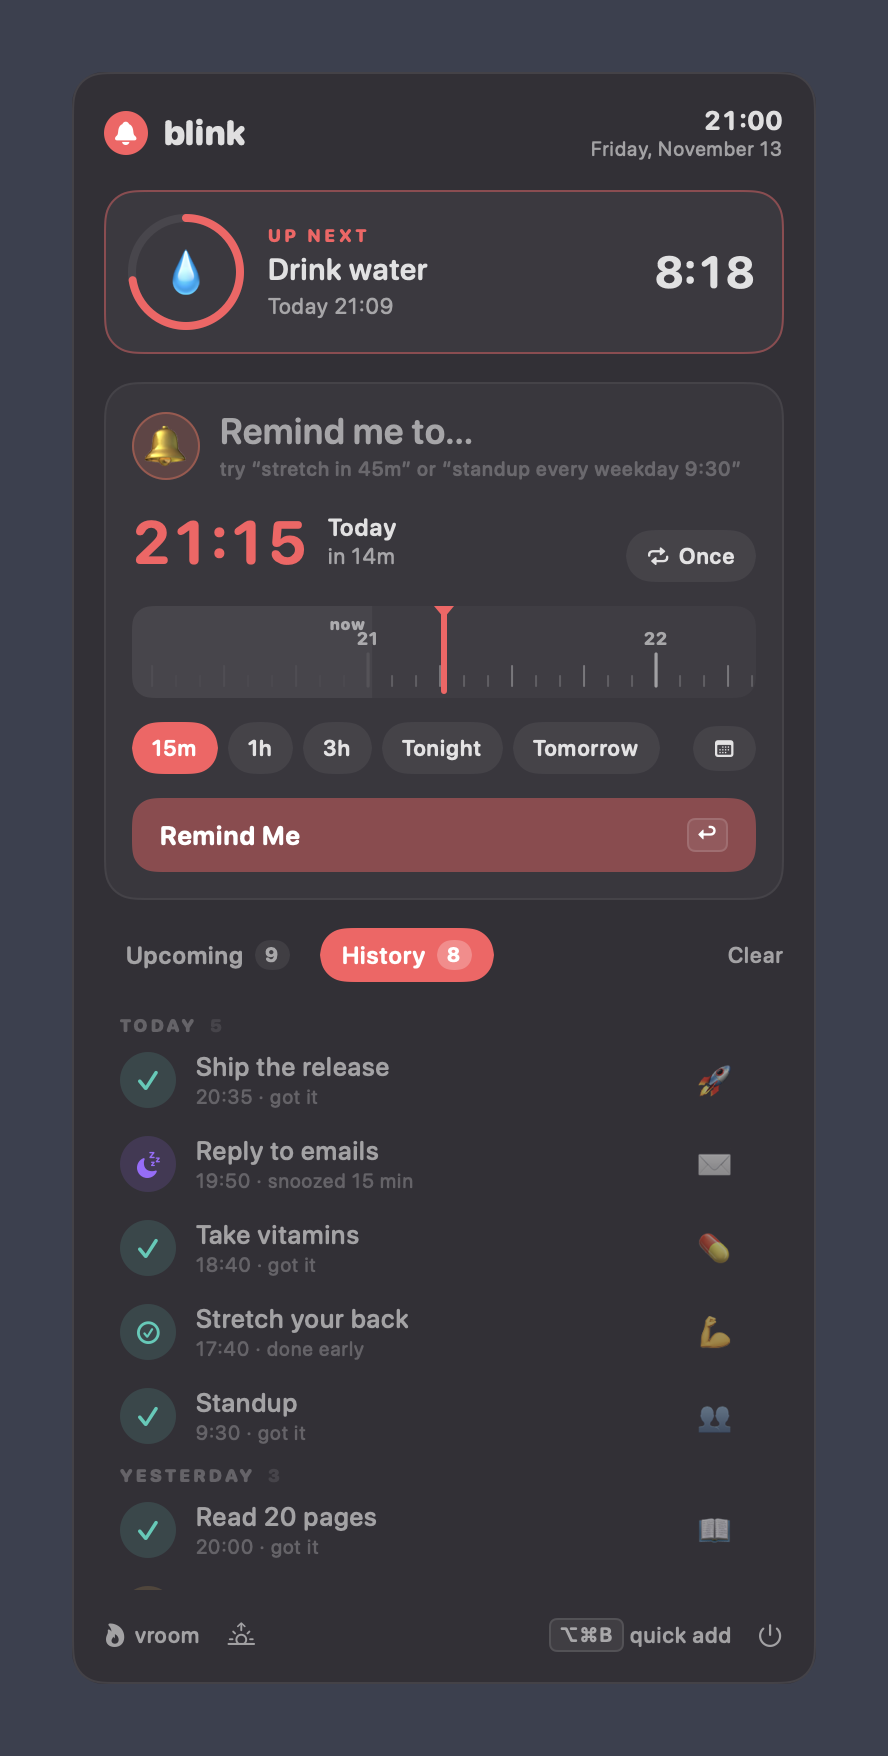
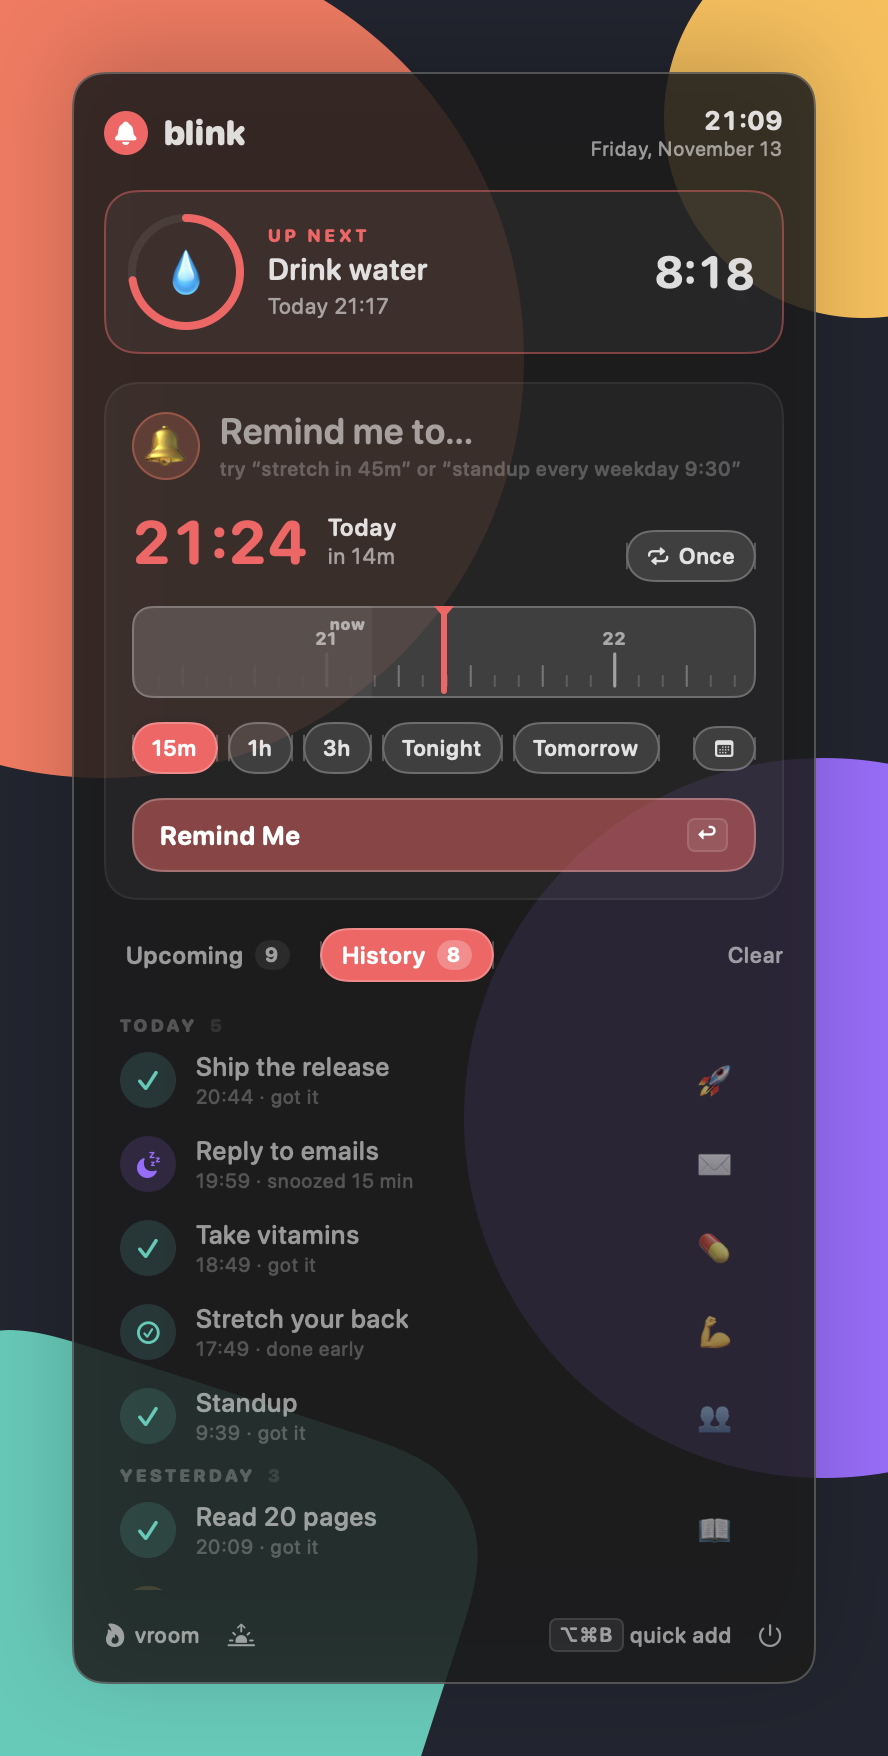
Liquid Glass design on macOS 26+
- Glass on the control layer: pills, tabs (sliding tinted glass), timeline,
  Remind Me, icon buttons, undo toast, alert buttons and bell disc
- Quick-add is a floating glass panel; GlassEffectContainer groups chips/buttons
- Flat fallback on older macOS; README screenshots use a glass stand-in
  since the compositor's glass can't be captured offscreen

diff --git a/Blink.swift b/Blink.swift
@@ -397,6 +397,60 @@ enum Fmt {
     static func when(_ d: Date) -> String { "\(day(d)) \(time(d))" }
 }
 
+// MARK: - Liquid Glass (macOS 26+), flat fallback on older systems
+
+extension View {
+    /// Glass for controls: pills, buttons, tabs. Content stays plain — glass is the layer you touch.
+    @ViewBuilder
+    func liquidGlass<S: InsettableShape>(_ shape: S, tint: Color? = nil, interactive: Bool = false) -> some View {
+        if snapshotMode {
+            self.background(FauxGlass(shape: shape, tint: tint))
+        } else if #available(macOS 26.0, *) {
+            self.glassEffect(Glass.regular.tint(tint).interactive(interactive), in: shape)
+        } else {
+            self.background(shape.fill(tint.map { AnyShapeStyle($0) } ?? AnyShapeStyle(Color.primary.opacity(0.07))))
+        }
+    }
+
+    /// Glass for whole floating panels.
+    @ViewBuilder
+    func glassPanel(radius: CGFloat) -> some View {
+        if snapshotMode {
+            self.background(FauxGlass(shape: RoundedRectangle(cornerRadius: radius), panel: true))
+        } else if #available(macOS 26.0, *) {
+            self.glassEffect(.regular, in: RoundedRectangle(cornerRadius: radius))
+        } else {
+            self.background(VisualEffect(material: .hudWindow, radius: radius))
+                .overlay(RoundedRectangle(cornerRadius: radius).strokeBorder(.white.opacity(0.12)))
+        }
+    }
+}
+
+/// Offscreen screenshots can't capture the compositor's real glass, so README shots use this stand-in.
+struct FauxGlass<S: InsettableShape>: View {
+    let shape: S
+    var tint: Color?
+    var panel = false
+    @Environment(\.colorScheme) private var scheme
+    var body: some View {
+        let dark = scheme == .dark
+        let base: Color = panel ? (dark ? Color(white: 0.11).opacity(0.86) : Color.white.opacity(0.82))
+                                : (dark ? Color.white.opacity(0.12) : Color.white.opacity(0.55))
+        shape.fill(tint ?? base)
+            .overlay(shape.strokeBorder(Color.white.opacity(dark ? 0.24 : 0.8), lineWidth: 1))
+            .shadow(color: .black.opacity(panel ? 0.25 : 0.08), radius: panel ? 24 : 3, y: panel ? 10 : 1)
+    }
+}
+
+/// Lets neighbouring glass shapes blend and morph into each other.
+struct GlassGroup<Content: View>: View {
+    var spacing: CGFloat = 8
+    @ViewBuilder var content: Content
+    var body: some View {
+        if #available(macOS 26.0, *) { GlassEffectContainer(spacing: spacing) { content } } else { content }
+    }
+}
+
 // MARK: - Small components
 
 struct EmojiBadge: View {
@@ -424,7 +478,7 @@ struct Pill: View {
         }
         .font(.r(11, .semibold))
         .padding(.horizontal, 10).padding(.vertical, 6)
-        .background(Capsule().fill(on ? AnyShapeStyle(warm) : AnyShapeStyle(.primary.opacity(hover ? 0.14 : 0.07))))
+        .liquidGlass(Capsule(), tint: on ? warm : (hover ? Color.primary.opacity(0.06) : nil), interactive: true)
         .foregroundStyle(on ? AnyShapeStyle(.white) : AnyShapeStyle(.primary))
         .contentShape(Capsule())
         .onHover { hover = $0 }
@@ -519,7 +573,7 @@ struct TimeScrubber: View {
             }
         }
         .frame(height: 46)
-        .background(RoundedRectangle(cornerRadius: 10).fill(.primary.opacity(hovering ? 0.06 : 0.035)))
+        .liquidGlass(RoundedRectangle(cornerRadius: 10), tint: hovering ? Color.primary.opacity(0.04) : nil, interactive: true)
         .contentShape(Rectangle())
         .onHover { hovering = $0; $0 ? NSCursor.resizeLeftRight.push() : NSCursor.pop() }
         .gesture(DragGesture(minimumDistance: 0)
@@ -634,7 +688,7 @@ struct Composer: View {
 
             TimeScrubber(target: $target, now: store.now) { chip = nil }
 
-            HStack(spacing: 5) {
+            GlassGroup(spacing: 5) { HStack(spacing: 5) {
                 ForEach(QuickTime.all) { q in
                     Button { withAnimation(.snappy) { chip = q.id; target = q.make() } } label: {
                         Pill(label: q.id, on: chip == q.id)
@@ -650,7 +704,7 @@ struct Composer: View {
                                 .datePickerStyle(.graphical).labelsHidden().padding(12)
                         }
                 }
-            }
+            } }
 
             Button(action: add) {
                 HStack {
@@ -661,7 +715,7 @@ struct Composer: View {
                 }
                 .font(.r(13, .bold))
                 .padding(.horizontal, 14).padding(.vertical, 10)
-                .background(RoundedRectangle(cornerRadius: 12).fill(warm).opacity(title.isEmpty ? 0.45 : 1))
+                .liquidGlass(RoundedRectangle(cornerRadius: 14), tint: warm.opacity(title.isEmpty ? 0.5 : 0.95), interactive: true)
                 .foregroundStyle(.white)
             }
             .buttonStyle(.plain)
@@ -779,7 +833,7 @@ struct PopoverView: View {
                 }
                 .font(.r(11, .medium))
                 .padding(.horizontal, 12).padding(.vertical, 8)
-                .background(Capsule().fill(.primary.opacity(0.06)))
+                .liquidGlass(Capsule())
                 .transition(.move(edge: .bottom).combined(with: .opacity))
             }
 
@@ -803,7 +857,12 @@ struct PopoverView: View {
             }
             .font(.r(12, .semibold))
             .padding(.horizontal, 11).padding(.vertical, 6)
-            .background { if tab == t { Capsule().fill(warm).matchedGeometryEffect(id: "tab", in: ns) } }
+            .background {
+                if tab == t {
+                    Capsule().fill(.clear).liquidGlass(Capsule(), tint: warm, interactive: true)
+                        .matchedGeometryEffect(id: "tab", in: ns)
+                }
+            }
             .foregroundStyle(tab == t ? AnyShapeStyle(.white) : AnyShapeStyle(.secondary))
             .contentShape(Capsule())
         }
@@ -997,7 +1056,7 @@ func iconButton(_ name: String, help: String, _ action: @escaping () -> Void) ->
     Button { withAnimation(.spring) { action() } } label: {
         Image(systemName: name).font(.system(size: 11, weight: .bold))
             .frame(width: 26, height: 26)
-            .background(Circle().fill(.primary.opacity(0.08)))
+            .liquidGlass(Circle(), interactive: true)
     }
     .buttonStyle(.plain).help(help).accessibilityLabel(help)
 }
@@ -1057,7 +1116,7 @@ struct PastRow: View {
                     Label("Again in 15m", systemImage: "arrow.uturn.forward")
                         .font(.r(10, .semibold))
                         .padding(.horizontal, 8).padding(.vertical, 5)
-                        .background(Capsule().fill(.primary.opacity(0.08)))
+                        .liquidGlass(Capsule(), interactive: true)
                 }
                 .buttonStyle(.plain)
             } else {
@@ -1108,7 +1167,7 @@ struct QuickAddView: View {
             if saved {
                 VStack(spacing: 10) {
                     ZStack {
-                        Circle().fill(warm).frame(width: 64, height: 64).shadow(color: Palette.pink.opacity(0.6), radius: 20)
+                        Circle().fill(.clear).frame(width: 64, height: 64).liquidGlass(Circle(), tint: warm)
                         Image(systemName: "checkmark").font(.system(size: 28, weight: .heavy)).foregroundStyle(.white)
                     }
                     Text("Saved. Blink’s on it.").font(.r(18, .bold))
@@ -1118,8 +1177,7 @@ struct QuickAddView: View {
         }
         .padding(24)
         .frame(width: 540)
-        .background(VisualEffect(material: .hudWindow, radius: 26))
-        .overlay(RoundedRectangle(cornerRadius: 26).strokeBorder(.white.opacity(0.12)))
+        .glassPanel(radius: 26)
         .onExitCommand(perform: close)
     }
 }
@@ -1208,7 +1266,7 @@ struct Bell: View {
                         .scaleEffect(1 + p * 2.6)
                         .opacity((1 - p) * 0.75)
                 }
-                Circle().fill(warm).frame(width: 180, height: 180)
+                Circle().fill(.clear).frame(width: 180, height: 180).liquidGlass(Circle(), tint: warm.opacity(0.85))
                     .scaleEffect(1 + 0.035 * sin(t * 3.5))
                 Text(emoji).font(.system(size: 96))
                     .rotationEffect(.degrees(sin(t * 30) * 18 * env), anchor: .top)
@@ -1322,7 +1380,7 @@ struct OverlayView: View {
                 }
                 .font(.r(20, .medium)).foregroundStyle(.white.opacity(0.65))
 
-                HStack(spacing: 12) {
+                GlassGroup(spacing: 12) { HStack(spacing: 12) {
                     snooze("5 min", 300, "1")
                     snooze("15 min", 900, "2")
                     snooze("1 hour", 3600, "3")
@@ -1333,12 +1391,12 @@ struct OverlayView: View {
                         }
                         .font(.r(19, .bold))
                         .padding(.horizontal, 34).padding(.vertical, 16)
-                        .background(Capsule().fill(.white))
+                        .liquidGlass(Capsule(), tint: .white.opacity(0.9), interactive: true)
                         .foregroundStyle(.black)
                     }
                     .buttonStyle(Press())
                     .keyboardShortcut(primary ? .defaultAction : nil)
-                }
+                } }
                 .padding(.top, 18)
 
                 if primary {
@@ -1388,8 +1446,7 @@ struct OverlayView: View {
             }
             .font(.r(16, .semibold))
             .padding(.horizontal, 22).padding(.vertical, 16)
-            .background(Capsule().fill(.white.opacity(0.1)))
-            .overlay(Capsule().strokeBorder(.white.opacity(0.22)))
+            .liquidGlass(Capsule(), interactive: true)
             .foregroundStyle(.white)
         }
         .buttonStyle(Press())
@@ -1528,17 +1585,25 @@ enum Snapshots {
         try? FileManager.default.createDirectory(at: dir, withIntermediateDirectories: true)
         seed()
 
-        let desk = Color(red: 0.23, green: 0.25, blue: 0.31)
-        let paper = Color(red: 0.86, green: 0.87, blue: 0.9)
+        // A "wallpaper" of solid shapes so the glass has something to refract.
+        func wall(_ dark: Bool) -> some View {
+            ZStack {
+                (dark ? Color(red: 0.13, green: 0.14, blue: 0.19) : Color(red: 0.9, green: 0.9, blue: 0.93))
+                Circle().fill(Palette.coral).frame(width: 420).offset(x: -170, y: -260)
+                Circle().fill(Palette.violet).frame(width: 360).offset(x: 190, y: 120)
+                RoundedRectangle(cornerRadius: 60).fill(Palette.teal).frame(width: 300, height: 260).rotationEffect(.degrees(18)).offset(x: -150, y: 380)
+                Circle().fill(Palette.amber).frame(width: 200).offset(x: 210, y: -380)
+            }
+        }
+        let desk = wall(true), paper = wall(false)
         func panel(_ tab: PopoverView.Tab) -> some View {
             PopoverView(startTab: tab)
-                .background(VisualEffect(material: .popover, radius: 16))
-                .overlay(RoundedRectangle(cornerRadius: 16).strokeBorder(.primary.opacity(0.1)))
+                .glassPanel(radius: 16)
         }
         add(panel(.upcoming).padding(36).background(paper), dark: false, "popover-light")
         add(panel(.upcoming).padding(36).background(desk), dark: true, "popover-dark")
         add(panel(.history).padding(36).background(desk), dark: true, "history")
-        add(QuickAddView(close: {}, initialText: "standup every weekday 9:30").padding(56).background(desk), dark: true, "quick-add")
+        add(QuickAddView(close: {}, initialText: "standup every weekday 9:30").padding(56).background(desk).clipped(), dark: true, "quick-add")
         add(OverlayView(reminder: Reminder(text: "Drink water, you camel", date: Date()), primary: true, model: OverlayModel(),
                         onDone: {}, onSnooze: { _, _ in })
                 .frame(width: 1512, height: 945), dark: true, "alert")

diff --git a/README.md b/README.md
@@ -2,7 +2,7 @@
 
 # Blink
 
-A tiny macOS menu bar reminder app that refuses to be ignored.
+A tiny macOS menu bar reminder app that refuses to be ignored, built with Liquid Glass.
 
 Add a reminder in two seconds; when it's due, Blink takes over **every screen** with a huge, animated alert (and a V8 engine roar that shakes the screen) until you deal with it.
 
@@ -72,7 +72,7 @@ Reminders missed while your Mac was asleep fire as soon as it wakes.
 - `tools/icon.swift`: draws the app icon (flat, no gradients)
 - `tools/sounds.py`: synthesizes the chime, pop, done and engine sounds from scratch
 
-Screenshots come from the app itself (`Blink --snapshots docs`), rendered with sample data.
+Screenshots come from the app itself (`Blink --snapshots docs`), rendered with sample data. On macOS 26+ the controls and panels use real Liquid Glass, which only the window server can draw, so the screenshots show a close stand-in; on your screen the glass refracts whatever is behind it. Older macOS versions get a flat fallback.
 
 Your data lives in `~/Library/Application Support/Blink/`.
 
